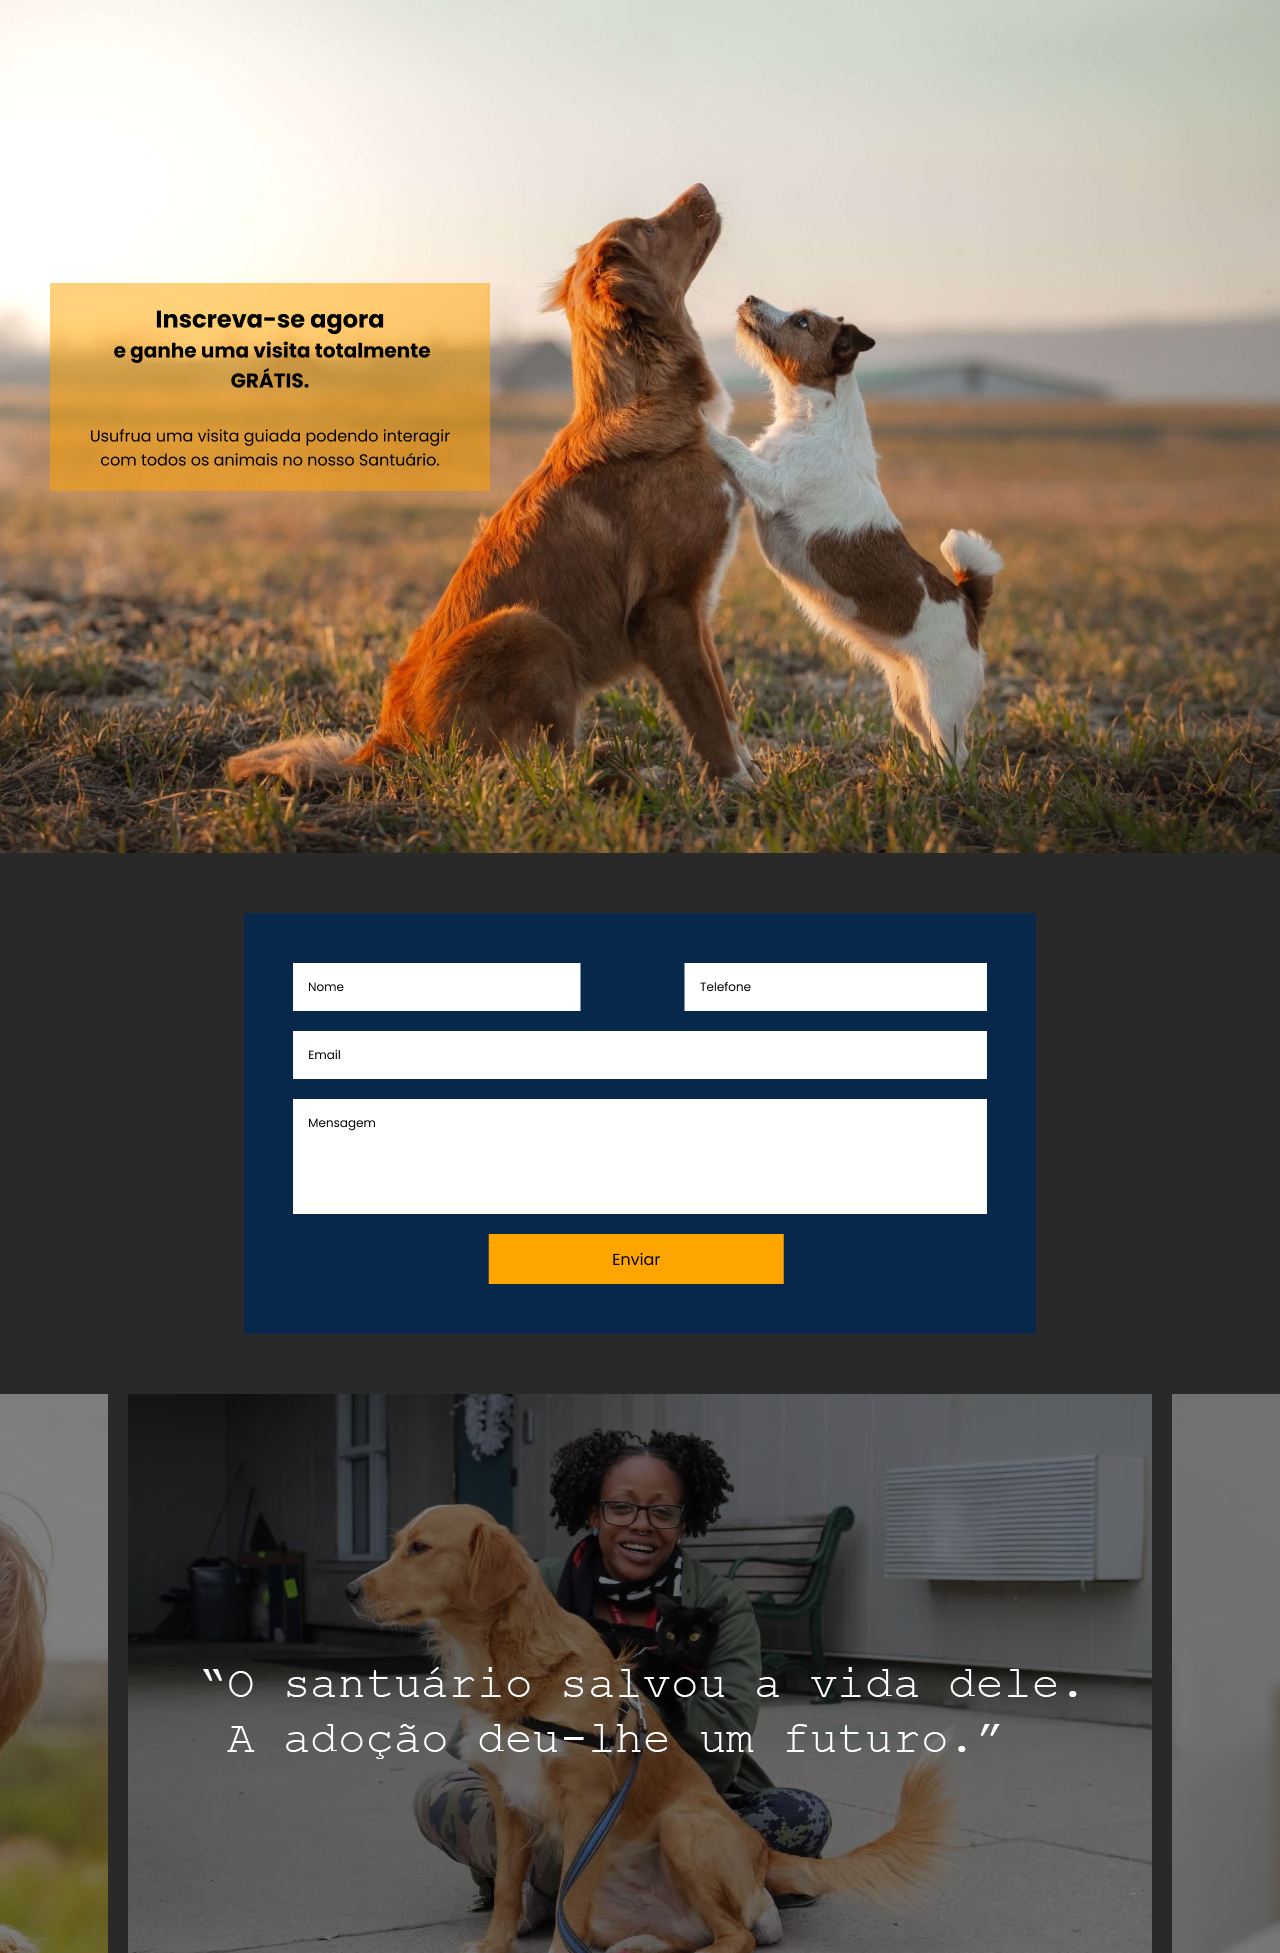
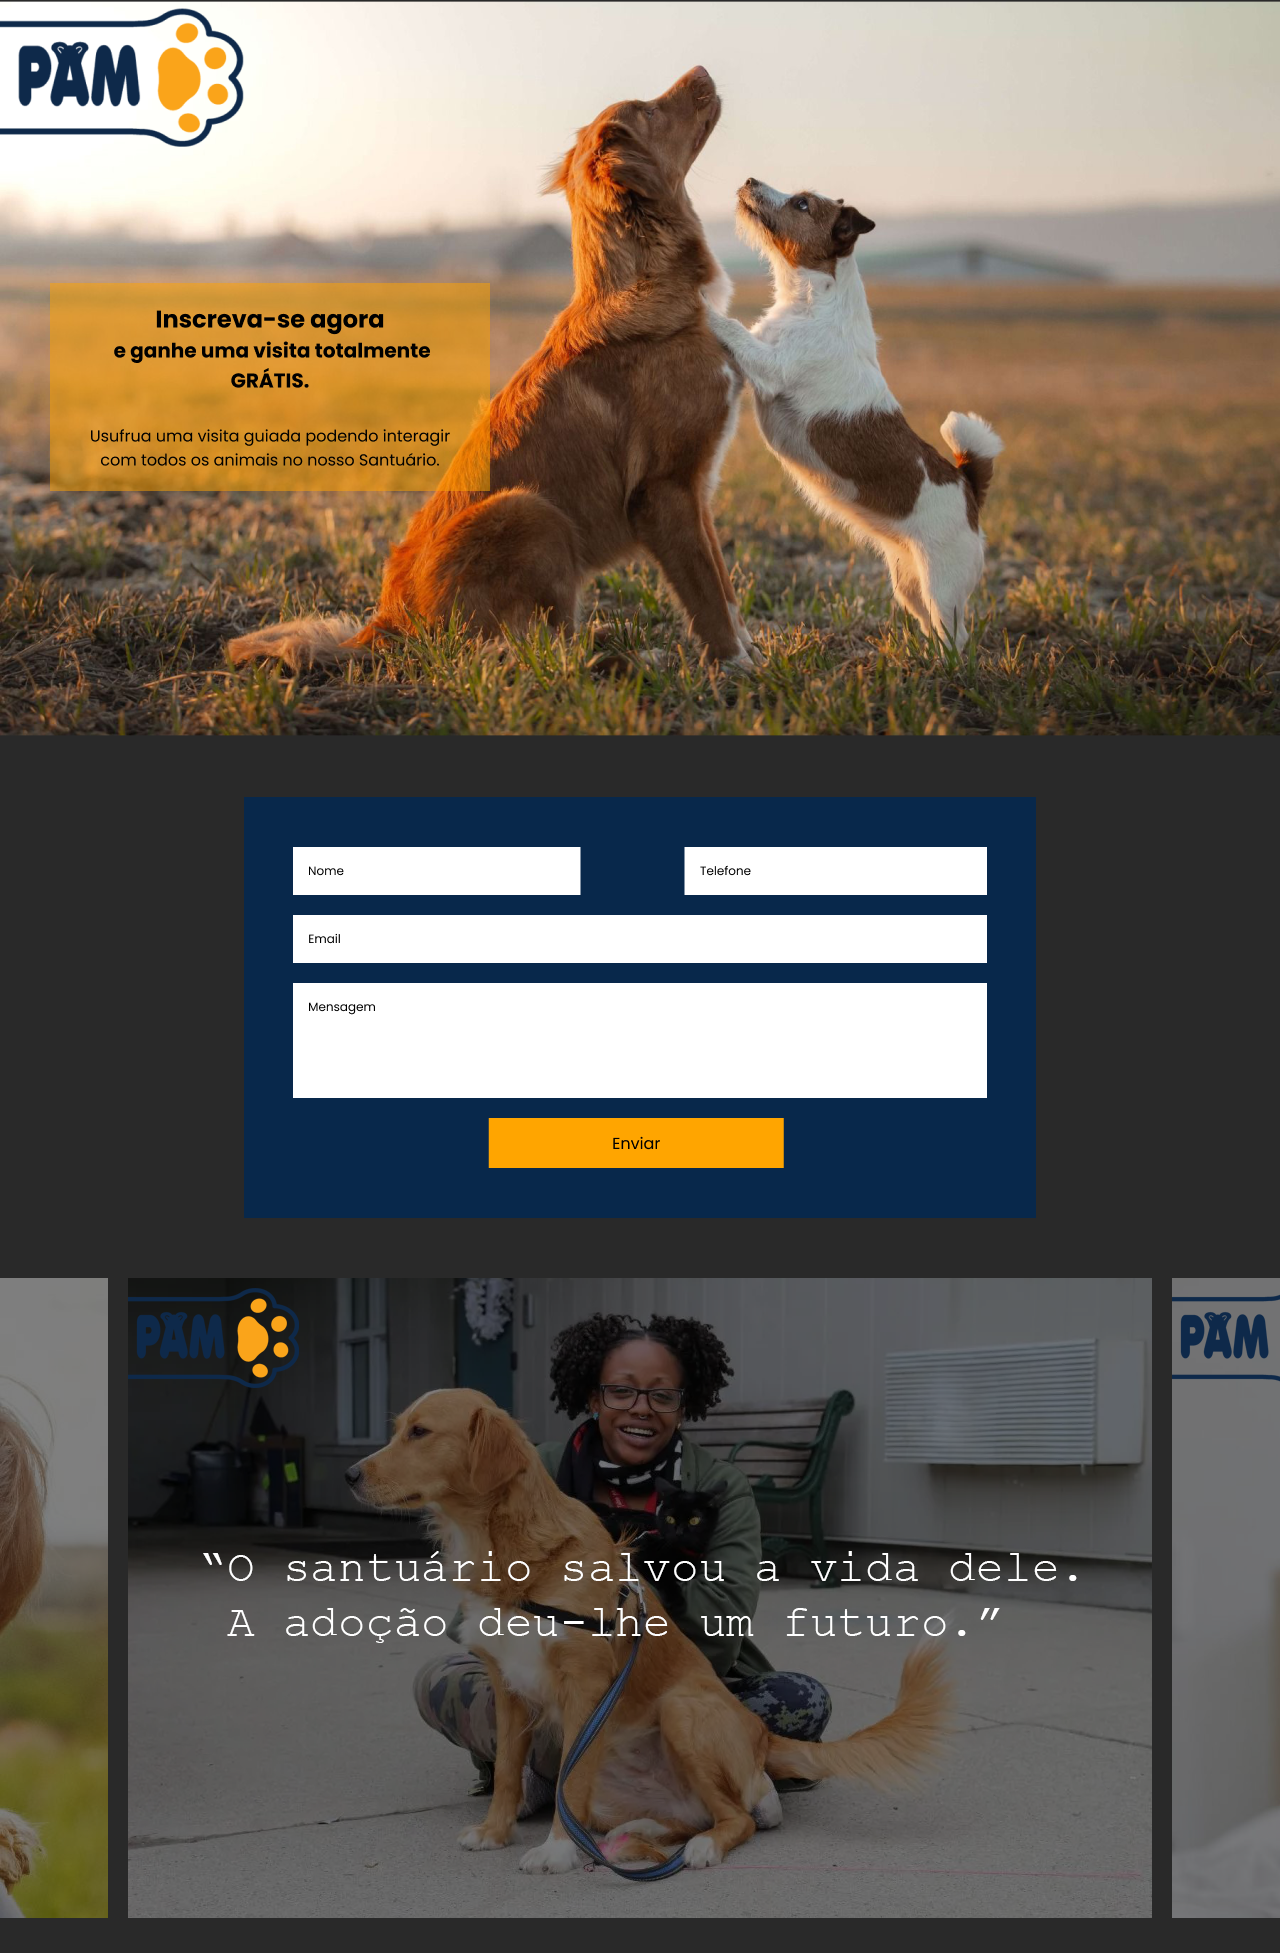
etapa final hugo

diff --git a/site/backoffice/assets/js/partners.js b/site/backoffice/assets/js/partners.js
@@ -1,0 +1,8 @@
+let table= new DataTable('#partnersTable', {
+    language:{
+        url: 'assets/js/pt_PT.json'
+    },
+    pageLength: 10,
+    lengthMenu: [5, 10, 25, 50],
+    columns: [null, null, null, null, null, null, { orderable: false }]
+});

diff --git a/site/backoffice/components/modal_partners.php b/site/backoffice/components/modal_partners.php
@@ -1,0 +1,67 @@
+<div class="modal fade" id="formModal">
+    <div class="modal-dialog modal-dialog-centered modal-lg">
+        <div class="modal-content">
+
+            <div class="modal-header">
+                <h5 class="modal-title">
+                    <i class="fa-solid fa-handshake me-2"></i>
+                    <?= $edit ? "Editar Parceiro: " . htmlspecialchars($edit['company_name']) : "Novo Parceiro Comercial"; ?>
+                </h5>
+            </div>
+
+            <form action="components/action_partners.php" method="POST" enctype="multipart/form-data" class="needs-validation" novalidate>
+                <div class="modal-body">
+                    <?php if ($edit){ ?>
+                        <input type="hidden" name="id" value="<?= $edit['id']; ?>">
+                    <?php } ?>
+
+                    <div class="row">
+                        <div class="col-md-6">
+                            <div class="mb-3">
+                                <label for="formCompanyName" class="form-label fw-bold">Nome da Empresa</label>
+                                <input id="formCompanyName" type="text" name="company_name" class="form-control" placeholder="Ex: Petshop Alegria"
+                                    value="<?= $edit ? htmlspecialchars($edit['company_name']) : ''; ?>" required maxlength="150">
+                            </div>
+
+                            <div class="mb-3">
+                                <label for="formContactPerson" class="form-label fw-bold">Pessoa de Contacto</label>
+                                <input id="formContactPerson" type="text" name="contact_person" class="form-control" placeholder="Ex: Sr. Joaquim"
+                                    value="<?= $edit ? htmlspecialchars($edit['contact_person']) : ''; ?>" required maxlength="100">
+                            </div>
+                        </div>
+
+                        <div class="col-md-6">
+                            <div class="mb-3">
+                                <label for="formPhone" class="form-label fw-bold">Telemóvel / Telefone</label>
+                                <input id="formPhone" type="text" name="phone" class="form-control" placeholder="Ex: 221111111"
+                                    value="<?= $edit ? htmlspecialchars($edit['phone']) : ''; ?>" required maxlength="20">
+                            </div>
+
+                            <div class="mb-3">
+                                <label for="formEmail" class="form-label fw-bold">Email Comercial</label>
+                                <input id="formEmail" type="email" name="email" class="form-control" placeholder="Ex: geral@empresa.com"
+                                    value="<?= $edit ? htmlspecialchars($edit['email']) : ''; ?>" maxlength="100">
+                            </div>
+                        </div>
+                    </div>
+
+                    <div class="row">
+                        <div class="col-12">
+                            <div class="mb-3">
+                                <label for="formPhoto" class="form-label fw-bold">Logótipo do Parceiro</label>
+                                <input id="formPhoto" type="file" name="image" class="form-control" accept="image/*">
+                            </div>
+                        </div>
+                    </div>
+                </div>
+
+                <div class="modal-footer bg-light">
+                    <a href="partners" class="btn btn-secondary">Cancelar</a>
+                    <button type="submit" name="<?= $edit ? 'btnEditar' : 'btnCriar'; ?>" class="btn btn-success px-4 fw-bold">
+                        <i class="fa-solid fa-floppy-disk me-2"></i> <?= $edit ? 'Guardar Alterações' : 'Adicionar Parceiro'; ?>
+                    </button>
+                </div>
+            </form>
+        </div>
+    </div>
+</div>

diff --git a/site/backoffice/partners.php b/site/backoffice/partners.php
@@ -1,0 +1,94 @@
+<?php
+if (!$rerun) {
+    $metaTitle = 'Lista de Parceiros';
+    $metaDescription = 'Lista de Parceiros da Poppy and Max';
+
+    if (!empty($_GET['delete']) && !empty($_GET['id'])) {
+        $id = $_GET['id'];
+
+        $stmt = $conn->prepare("DELETE FROM partners WHERE id = ? ");
+        $stmt->bind_param('i', $id);
+        $stmt->execute();
+
+        $stmt->close();
+        $conn->close();
+
+        header('Location: ./partners');
+        exit();
+    }
+
+    $query = $conn->query("SELECT * FROM vw_corporate_partners_directory");
+
+    $edit = null;
+    if (isset($_GET['edit'])) {
+        $id = $_GET['edit'];
+        $stmt = $conn->prepare("SELECT * FROM partners WHERE id = ?");
+        $stmt->bind_param("i", $id);
+        $stmt->execute();
+        $edit = $stmt->get_result()->fetch_assoc();
+        $stmt->close();
+    }
+} else {
+?>
+    <section class="ms-2">
+        <h1 class="fw-bold custom-blue mt-2 mb-4">Gestão de Parceiros</h1>
+
+        <div class="d-flex justify-content-end gap-2 mb-3">
+            <button type="button" class="btn btn-success" data-bs-toggle="modal" data-bs-target="#formModal">
+                <i class="fa-solid fa-plus me-1"></i> Adicionar Parceiro
+            </button>
+        </div>
+
+        <?php
+            require 'components/modal_partners.php';
+        ?>
+
+        <table class="table table-striped table-hover" id="partnersTable">
+            <thead>
+                <tr>
+                    <th>ID</th>
+                    <th>Logótipo / Foto</th>
+                    <th>Empresa</th>
+                    <th>Pessoa de Contacto</th>
+                    <th>Telemóvel</th>
+                    <th>Email</th>
+                    <th>Ações</th>
+                </tr>
+            </thead>
+            <tbody>
+                <?php
+                    while ($row = $query->fetch_assoc()) {
+                ?>
+                        <tr>
+                            <td><?= $row['id']?></td>
+                            <td>
+                                <img src="../assets/img/partners/<?= !empty($row['photo']) ? htmlspecialchars($row['photo']) : 'partner_default.svg' ?>" alt="Logótipo" style="width: 50px; height: auto;">
+                            </td>
+                            <td><?= htmlspecialchars($row['company_name'] ?? 'Sem nome') ?></td>
+                            <td><?= htmlspecialchars($row['contact_person'] ?? 'Sem contacto') ?></td>
+                            <td><?= htmlspecialchars($row['phone'] ?? 'Sem telefone') ?></td>
+                            <td><?= htmlspecialchars($row['email'] ?? 'Sem email') ?></td>
+                            <td>
+                                <a href="?edit=<?= $row['id'] ?>"><i class="fa-solid fa-pen-to-square me-2"></i></a>
+                                <a href="?id=<?= $row['id'] ?>&delete=true" onclick="return confirm('Tem a certeza que quer eliminar este parceiro?')"><i style="color: #dc3545;" class="fa-solid fa-trash"></i></a>
+                            </td>
+                        </tr>
+                <?php
+                    }
+                ?>
+            </tbody>
+        </table>
+    </section>
+
+    <script>
+        document.addEventListener("DOMContentLoaded", function() {
+            <?php if (isset($_GET['edit']) && !empty($edit)): ?>
+                var meuModal = new bootstrap.Modal(document.getElementById('formModal'));
+                meuModal.show();
+            <?php endif; ?>
+        });
+    </script>
+    
+<?php
+}
+?>

diff --git a/site/backoffice/components/action_partners.php b/site/backoffice/components/action_partners.php
@@ -1,0 +1,70 @@
+<?php
+    require_once '../../db.php';
+    $folder = "../../assets/img/partners/";
+
+    if ($_SERVER['REQUEST_METHOD'] === 'POST') {
+        $actionId = $_POST['id'] ?? null;
+        $actionCompanyName = trim($_POST['company_name'] ?? null);
+        $actionContactPerson = trim($_POST['contact_person'] ?? null);
+        $actionPhone = trim($_POST['phone'] ?? null);
+        $actionEmail = trim($_POST['email'] ?? null);
+
+        if (isset($_POST['btnCriar'])) {
+            $file = "";
+
+            if (!empty($_FILES['image']['name'])) {
+                $extension = pathinfo($_FILES['image']['name'], PATHINFO_EXTENSION);
+                $file = uniqid('partner_', true) . '.' . $extension;
+
+                if (!move_uploaded_file($_FILES['image']['tmp_name'], $folder . $file)) {
+                    header("Location: ../partners?status=erro_imagem");
+                    exit();
+                }
+            }
+
+            if (!empty($actionCompanyName) && !empty($actionContactPerson) && !empty($actionPhone)) {
+                $stmt = $conn->prepare("INSERT INTO partners (company_name, contact_person, phone, email, photo) VALUES (?, ?, ?, ?, ?)");
+                $stmt->bind_param("sssss", $actionCompanyName, $actionContactPerson, $actionPhone, $actionEmail, $file);
+                $stmt->execute();
+                $stmt->close();
+                header("Location: ../partners?status=criado");
+            } else {
+                header("Location: ../partners?status=erro_validacao");
+            }
+            exit();
+        }
+
+        if (isset($_POST['btnEditar'])) {
+            $file = null;
+
+            if (!empty($_FILES['image']['name'])) {
+                $extension = pathinfo($_FILES['image']['name'], PATHINFO_EXTENSION);
+                $file = uniqid('partner_', true) . '.' . $extension;
+
+                if (!move_uploaded_file($_FILES['image']['tmp_name'], $folder . $file)) {
+                    header("Location: ../partners?status=erro_imagem");
+                    exit();
+                }
+            }
+
+            if (!empty($actionId) && !empty($actionCompanyName) && !empty($actionContactPerson) && !empty($actionPhone)) {
+                if ($file != null) {
+                    $stmt = $conn->prepare("UPDATE partners SET company_name=?, contact_person=?, phone=?, email=?, photo=? WHERE id=?");
+                    $stmt->bind_param("sssssi", $actionCompanyName, $actionContactPerson, $actionPhone, $actionEmail, $file, $actionId);
+                } else {
+                    $stmt = $conn->prepare("UPDATE partners SET company_name=?, contact_person=?, phone=?, email=? WHERE id=?");
+                    $stmt->bind_param("ssssi", $actionCompanyName, $actionContactPerson, $actionPhone, $actionEmail, $actionId);
+                }
+                $stmt->execute();
+                $stmt->close();
+                header("Location: ../partners?status=editado");
+            } else {
+                header("Location: ../partners?status=erro_validacao");
+            }
+            exit();
+        }
+    }
+
+    header("Location: ../partners");
+    exit();
+?>

diff --git a/site/home.php b/site/home.php
@@ -78,15 +78,15 @@
 
                     <div class="carousel-inner">
                         <div class="carousel-item active">
-                        <img src="assets/img/dia_voluntario_banner1.png" class="d-block w-100" alt="Caõminhada 2026">
+                        <img src="assets/img/home/banner_1.jpg" class="d-block w-100" alt="banner1">
                         </div>
 
                         <div class="carousel-item">
-                        <img src="assets/img/animal_care_cat.png" class="d-block w-100" alt="Cãominhada 2025">
+                        <img src="assets/img/home/banner_2.jpg" class="d-block w-100" alt="banner2">
                         </div>
 
                         <div class="carousel-item">
-                        <img src="assets/img/animal_care_rabies.png" class="d-block w-100" alt="Cãominhada 2024">
+                        <img src="assets/img/home/banner_3.jpg" class="d-block w-100" alt="banner3">
                         </div>
                     </div>
 
@@ -103,7 +103,22 @@
 
             <section class="pt-2 pb-5">
                 <h2 class="custom-blue text-center fw-bold fs-3">Conheça os nossos parceiros</h2>
-                <!-- Conteúdo dependente da página de parceiros-->
+                <div class="d-flex flex-row flex-wrap justify-content-center gap-4 my-4">
+                    <?php 
+                        $sql = "SELECT * FROM partners ORDER BY company_name ASC LIMIT 3";
+                        $result = $conn->query($sql);
+
+                            while ($row = $result->fetch_assoc()) {
+                    ?>
+                        <div class="card card-custom h-100 border-0">
+                            <div class="card-body text-center">
+                                <h4 class="card-title fw-bold text-dark display-6 mb-3">
+                                    <?= htmlspecialchars($row['company_name']) ?>
+                                </h4>
+                            </div>
+                        </div>
+                    <?php } ?>
+                </div>
             </section>
         </section>
 <?php

diff --git a/site/backoffice/components/sidebar.php b/site/backoffice/components/sidebar.php
@@ -48,6 +48,7 @@
                     <li><a href="<?= $basePath ?>/vetList" class="nav-link">Veterinários</a></li>
                     <li><a href="<?= $basePath ?>/medicalHistory" class="nav-link">Histórico Médico</a></li>
                     <li><a href="<?= $basePath ?>/donationList" class="nav-link">Doações</a></li>
+                    <li><a href="<?= $basePath ?>/partners" class="nav-link">Parceiros</a></li>
                 </ul>
             </div>
         </li>

diff --git a/site/config.php b/site/config.php
@@ -45,6 +45,7 @@
             'missing_animals',
             'medicalHistory',
             'user_list',
-            'vetList'
+            'vetList',
+            'partners',
         ]
     ]);
